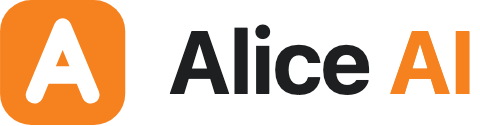
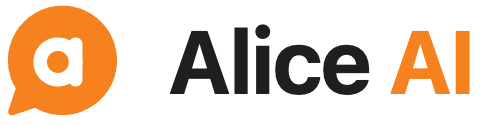
Merek: ikon gelembung chat bulat dengan "a" (oranye)
Ikon tab, ikon layar utama, dan wordmark memakai gelembung chat bulat
oranye dengan huruf "a" putih, menggantikan kotak dengan "A".
favicon.ico berisi 16, 32, dan 48 px. Ikon layar utama (180 dan 192 px)
adalah ubin oranye penuh dengan gelembung putih, supaya potongan kotak
iPhone dan lingkaran Android tetap utuh.

diff --git a/src/admin/page.html b/src/admin/page.html
@@ -53,7 +53,7 @@
   <symbol id="i-arrow-left" viewBox="0 0 24 24"><path d="M19 12H5"/><path d="M12 19l-7-7 7-7"/></symbol><symbol id="i-chevron-right" viewBox="0 0 24 24"><path d="m9 6 6 6-6 6"/></symbol>
   <symbol id="i-globe" viewBox="0 0 24 24"><circle cx="12" cy="12" r="9"/><path d="M3 12h18M12 3a14 14 0 0 1 0 18M12 3a14 14 0 0 0 0 18"/></symbol>
   <!-- Wordmark: tanda oranye (A sebagai path) + teks. "Alice" ikut warna tinta (currentColor), "AI" oranye. Sama dengan brand/wordmark.svg. -->
-  <symbol id="brand-wordmark" viewBox="0 0 92 24"><rect width="24" height="24" rx="6" fill="#f6821f"/><path d="M6.6 18.2 12 5.2l5.4 13M8.18 14.4h7.64" fill="none" stroke="#fff" stroke-width="3.36" stroke-linecap="round" stroke-linejoin="round"/><text x="32" y="18" font-family='-apple-system, BlinkMacSystemFont, "Segoe UI", Inter, Roboto, "Helvetica Neue", Arial, sans-serif' font-size="17" font-weight="700" letter-spacing="-0.34" fill="currentColor">Alice <tspan fill="#f6821f">AI</tspan></text></symbol>
+  <symbol id="brand-wordmark" viewBox="0 0 92 24"><path d="M12 1a10.5 10.5 0 1 1-5.3 19.6l-4.2 1.4c-.6.2-1.1-.3-.9-.9l1.4-4.2A10.5 10.5 0 0 1 12 1z" fill="#f6821f"/><circle cx="11.1" cy="11.8" r="3.4" fill="none" stroke="#fff" stroke-width="2.6"/><path d="M14.5 8.4v6.8" fill="none" stroke="#fff" stroke-width="2.6" stroke-linecap="round"/><text x="32" y="18" font-family='-apple-system, BlinkMacSystemFont, "Segoe UI", Inter, Roboto, "Helvetica Neue", Arial, sans-serif' font-size="17" font-weight="700" letter-spacing="-0.34" fill="currentColor">Alice <tspan fill="#f6821f">AI</tspan></text></symbol>
 </svg>
 
 <div class="login" id="login">
